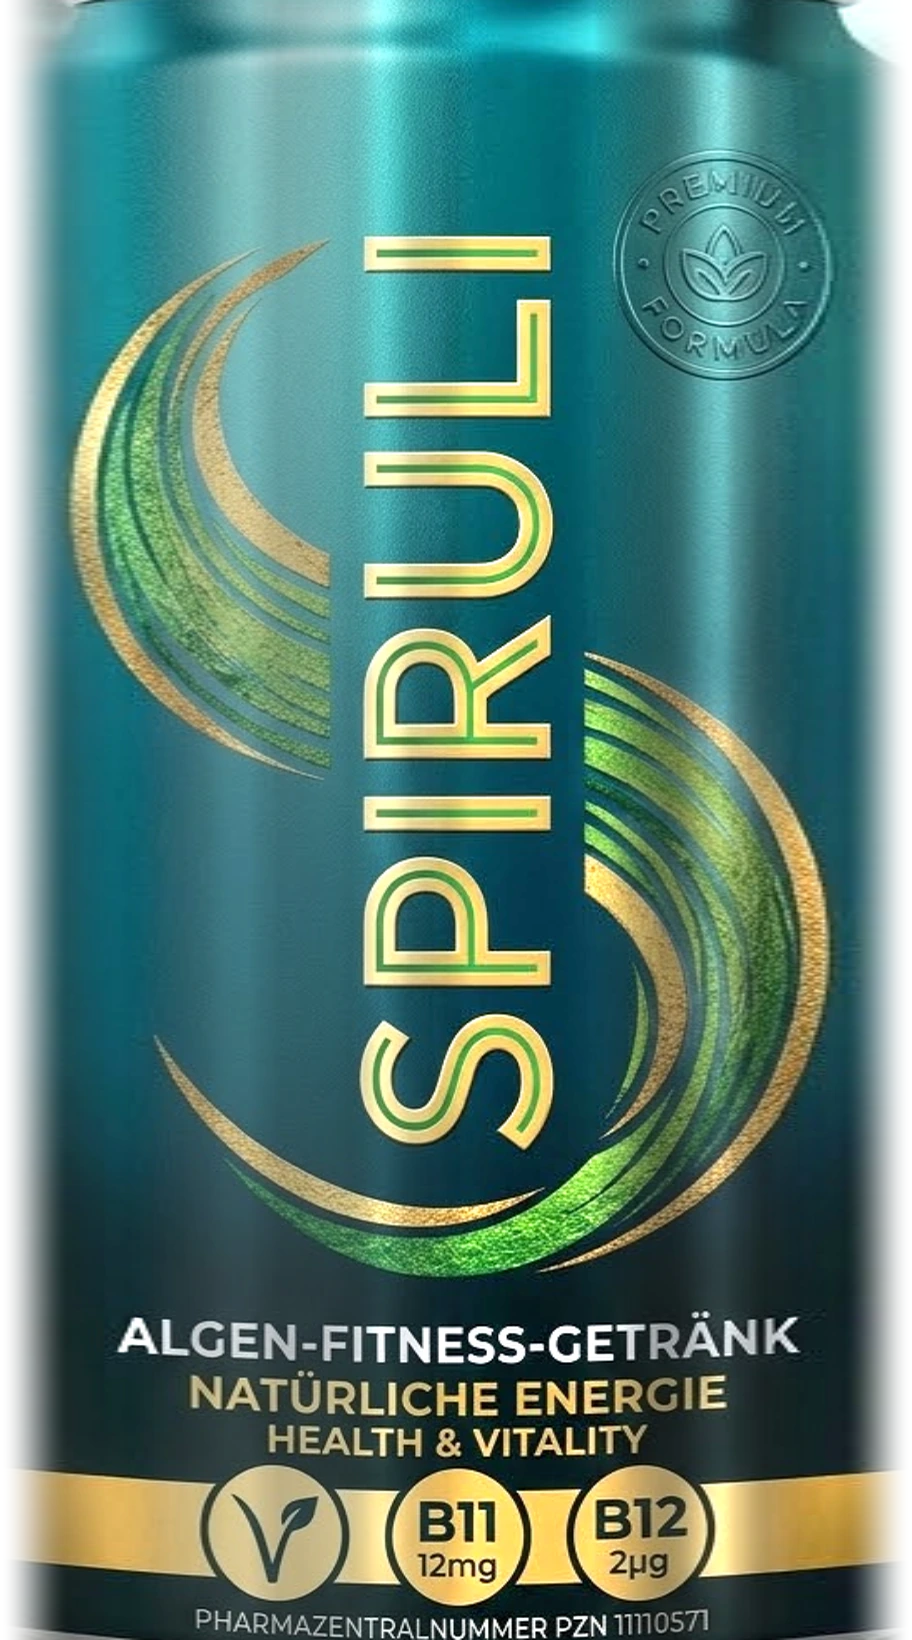
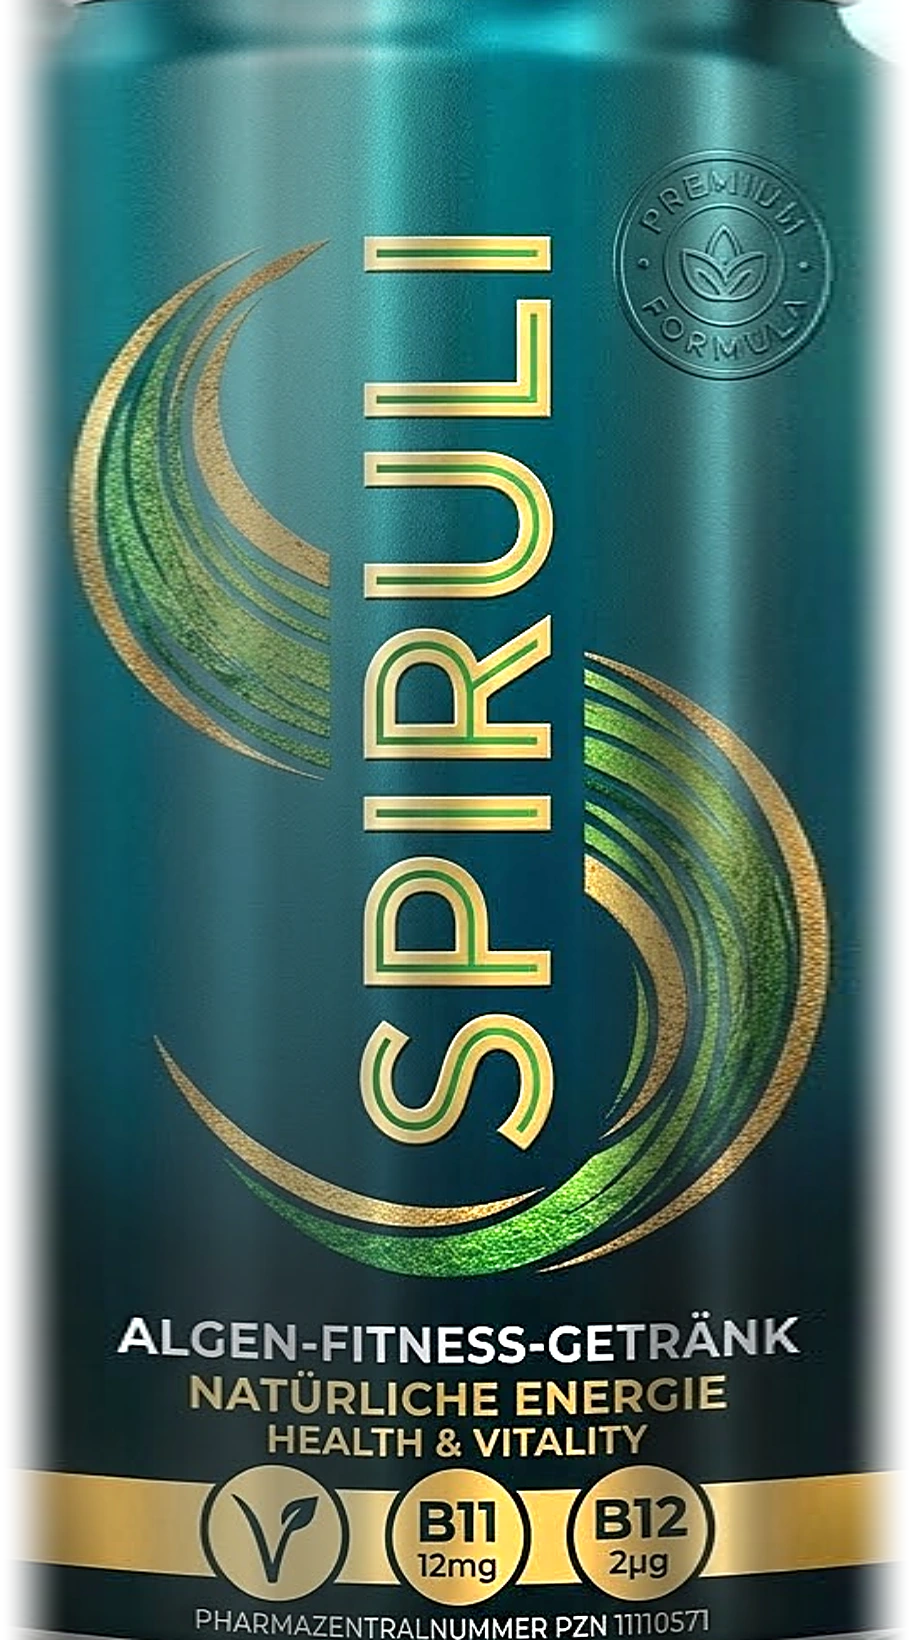
Satin finish for the 3D can, closer to the product photo
Lower clearcoat and environment reflections on the label, rougher lacquer
and gold in the PBR maps, satin aluminium, softer studio strip lights,
deeper tone and a light unsharp mask on the baked artwork.

Claude-Session: https://claude.ai/code/session_01GvAmwFmc9i5CyZBZw1U34q

diff --git a/spiruli/components/three/SpiruliCan.tsx b/spiruli/components/three/SpiruliCan.tsx
@@ -189,10 +189,10 @@ export default function SpiruliCan({ driven, spin = 0.5, interactive = true }: P
       new THREE.MeshPhysicalMaterial({
         color: "#e6e9ec",
         metalness: 1,
-        roughness: 0.2,
-        anisotropy: 0.6,
-        clearcoat: 0.2,
-        envMapIntensity: 1.6,
+        roughness: 0.38,
+        anisotropy: 0.4,
+        clearcoat: 0,
+        envMapIntensity: 0.9,
         side: THREE.DoubleSide,
       }),
     [],
@@ -206,17 +206,17 @@ export default function SpiruliCan({ driven, spin = 0.5, interactive = true }: P
         // colours; scene lights only add shape and highlights on top.
         emissive: new THREE.Color("#ffffff"),
         emissiveMap: label.color,
-        emissiveIntensity: 0.55,
+        emissiveIntensity: 0.52,
         toneMapped: false,
         roughnessMap: label.pbr,
         metalnessMap: label.pbr,
         roughness: 1,
         metalness: 1,
-        clearcoat: 0.55,
-        clearcoatRoughness: 0.14,
+        clearcoat: 0.12,
+        clearcoatRoughness: 0.45,
         clearcoatNormalMap: label.drops,
         clearcoatNormalScale: new THREE.Vector2(0, 0),
-        envMapIntensity: 1,
+        envMapIntensity: 0.45,
       }),
     [label],
   );
@@ -306,8 +306,9 @@ export default function SpiruliCan({ driven, spin = 0.5, interactive = true }: P
     // Condensation beads up or evaporates gradually.
     s.wet = THREE.MathUtils.damp(s.wet, chilled ? 1 : 0, 1.4, dt);
     labelMat.clearcoatNormalScale.setScalar(s.wet * 0.6);
-    labelMat.clearcoatRoughness = 0.14 - s.wet * 0.06;
-    alu.roughness = 0.2 + s.wet * 0.1;
+    labelMat.clearcoatRoughness = 0.45 - s.wet * 0.35;
+    labelMat.clearcoat = 0.12 + s.wet * 0.6;
+    alu.roughness = 0.38 + s.wet * 0.1;
 
     const d = driven ?? restPose();
     if (group.current && tiltGroup.current) {

diff --git a/spiruli/components/three/Studio.tsx b/spiruli/components/three/Studio.tsx
@@ -19,19 +19,19 @@ export default function Studio({ accent = "#2FA35B" }: { accent?: string }) {
   return (
     <>
       <ambientLight intensity={0.45} color="#dfeef2" />
-      <spotLight position={[3, 6, 5]} angle={0.45} penumbra={1} intensity={70} color="#fff3dc" />
+      <spotLight position={[3, 6, 5]} angle={0.45} penumbra={1} intensity={40} color="#fff3dc" />
       <pointLight position={[-3, 1, -2]} intensity={10} color={accent} />
       <pointLight position={[-3, 0.5, 4]} intensity={14} color="#cfe6ee" />
       <pointLight position={[3, -2, -1.5]} intensity={18} color="#E2C47A" />
       <Environment resolution={256} frames={Infinity}>
         <color attach="background" args={["#dfe6e8"]} />
         <Lightformer form="rect" intensity={3} position={[0, 5, 3]} scale={[10, 2, 1]} color="#ffffff" />
-        <Lightformer form="rect" intensity={1.2} position={[-4, 0, 3]} rotation-y={Math.PI / 3} scale={[1.2, 10, 1]} color="#ffffff" />
+        <Lightformer form="rect" intensity={0.6} position={[-4, 0, 3]} rotation-y={Math.PI / 3} scale={[3, 10, 1]} color="#ffffff" />
         <Lightformer form="rect" intensity={1.1} position={[4.5, 0, 1]} rotation-y={-Math.PI / 2} scale={[6, 8, 1]} color="#C9A55A" />
         <Lightformer form="rect" intensity={0.8} position={[-5, 0, -2]} rotation-y={Math.PI / 2} scale={[6, 8, 1]} color={accent} />
         <Lightformer form="ring" intensity={1.5} position={[0, -4, 3]} scale={3} color="#F1E2B5" />
         <group ref={sweep}>
-          <Lightformer form="rect" intensity={3} position={[0, 0, 6]} scale={[0.8, 12, 1]} color="#ffffff" />
+          <Lightformer form="rect" intensity={0.9} position={[0, 0, 6]} scale={[2.5, 12, 1]} color="#ffffff" />
         </group>
       </Environment>
     </>

diff --git a/spiruli/lib/drawLabel.ts b/spiruli/lib/drawLabel.ts
@@ -22,8 +22,8 @@ export type LabelFonts = { display: string; sans: string };
  * three.js reads roughness from G and metalness from B.
  */
 const INKS = {
-  petrol: { color: "#153e51", rough: 0.45, metal: 0.1 },
-  gold: { color: "#d8b66a", rough: 0.22, metal: 0.65 },
+  petrol: { color: "#153e51", rough: 0.62, metal: 0.05 },
+  gold: { color: "#d8b66a", rough: 0.4, metal: 0.55 },
   green: { color: "#5fb548", rough: 0.35, metal: 0.5 },
   white: { color: "#f3efe6", rough: 0.55, metal: 0 },
 } as const;

diff --git a/spiruli/scripts/bake-label.py b/spiruli/scripts/bake-label.py
@@ -41,7 +41,7 @@ valid = ~np.isnan(med)
 xs = np.arange(src.shape[1])
 med = np.interp(xs, xs[valid], med[valid])
 med = np.convolve(med, np.ones(15) / 15, mode="same")
-target = np.percentile(med[x0:x1], 65)
+target = np.percentile(med[x0:x1], 50)
 gain = np.clip(target / np.maximum(med, 1e-3), 0.6, 1.9)
 flat = np.clip(src * gain[None, :, None], 0, 1)
 
@@ -65,7 +65,10 @@ alpha = alpha * alpha * (3 - 2 * alpha)
 alpha = np.broadcast_to(alpha[None, :], out.shape[:2])
 rgba = np.dstack([out, alpha])
 OUT.mkdir(exist_ok=True)
-Image.fromarray((rgba * 255).round().astype(np.uint8), "RGBA").save(OUT / "front.webp", quality=92, method=6)
+# The photo is low-res for a full wrap; a gentle unsharp mask restores edge crispness.
+color_img = Image.fromarray((rgba * 255).round().astype(np.uint8), "RGBA")
+color_img = color_img.filter(ImageFilter.UnsharpMask(radius=2.2, percent=70, threshold=2))
+color_img.save(OUT / "front.webp", quality=94, method=6)
 
 # PBR: gold ink is metal, green brushwork semi-metallic, white ink matte,
 # petrol a satin lacquer.
@@ -75,8 +78,8 @@ sat = (mx - mn) / np.maximum(mx, 1e-3)
 gold = np.clip(((R_ - B_) - 0.12) / 0.15, 0, 1) * np.clip((R_ - 0.3) / 0.15, 0, 1)
 green = np.clip(((G_ - R_) - 0.12) / 0.12, 0, 1) * np.clip(((G_ - B_) - 0.02) / 0.1, 0, 1)
 white = np.clip((mn - 0.55) / 0.2, 0, 1) * np.clip((0.25 - sat) / 0.15, 0, 1)
-rough = 0.45 + gold * (0.22 - 0.45) + green * (0.35 - 0.45) + white * (0.55 - 0.45)
-metal = 0.1 + gold * (0.65 - 0.1) + green * (0.3 - 0.1) + white * (0 - 0.1)
+rough = 0.62 + gold * (0.4 - 0.62) + green * (0.5 - 0.62) + white * (0.7 - 0.62)
+metal = 0.05 + gold * (0.55 - 0.05) + green * (0.2 - 0.05) + white * (0 - 0.05)
 pbr = np.dstack([np.zeros_like(rough), rough, np.clip(metal, 0, 1), alpha])
 img = Image.fromarray((pbr * 255).round().astype(np.uint8), "RGBA").filter(ImageFilter.SMOOTH)
 img.save(OUT / "front-pbr.webp", quality=90, method=6)
